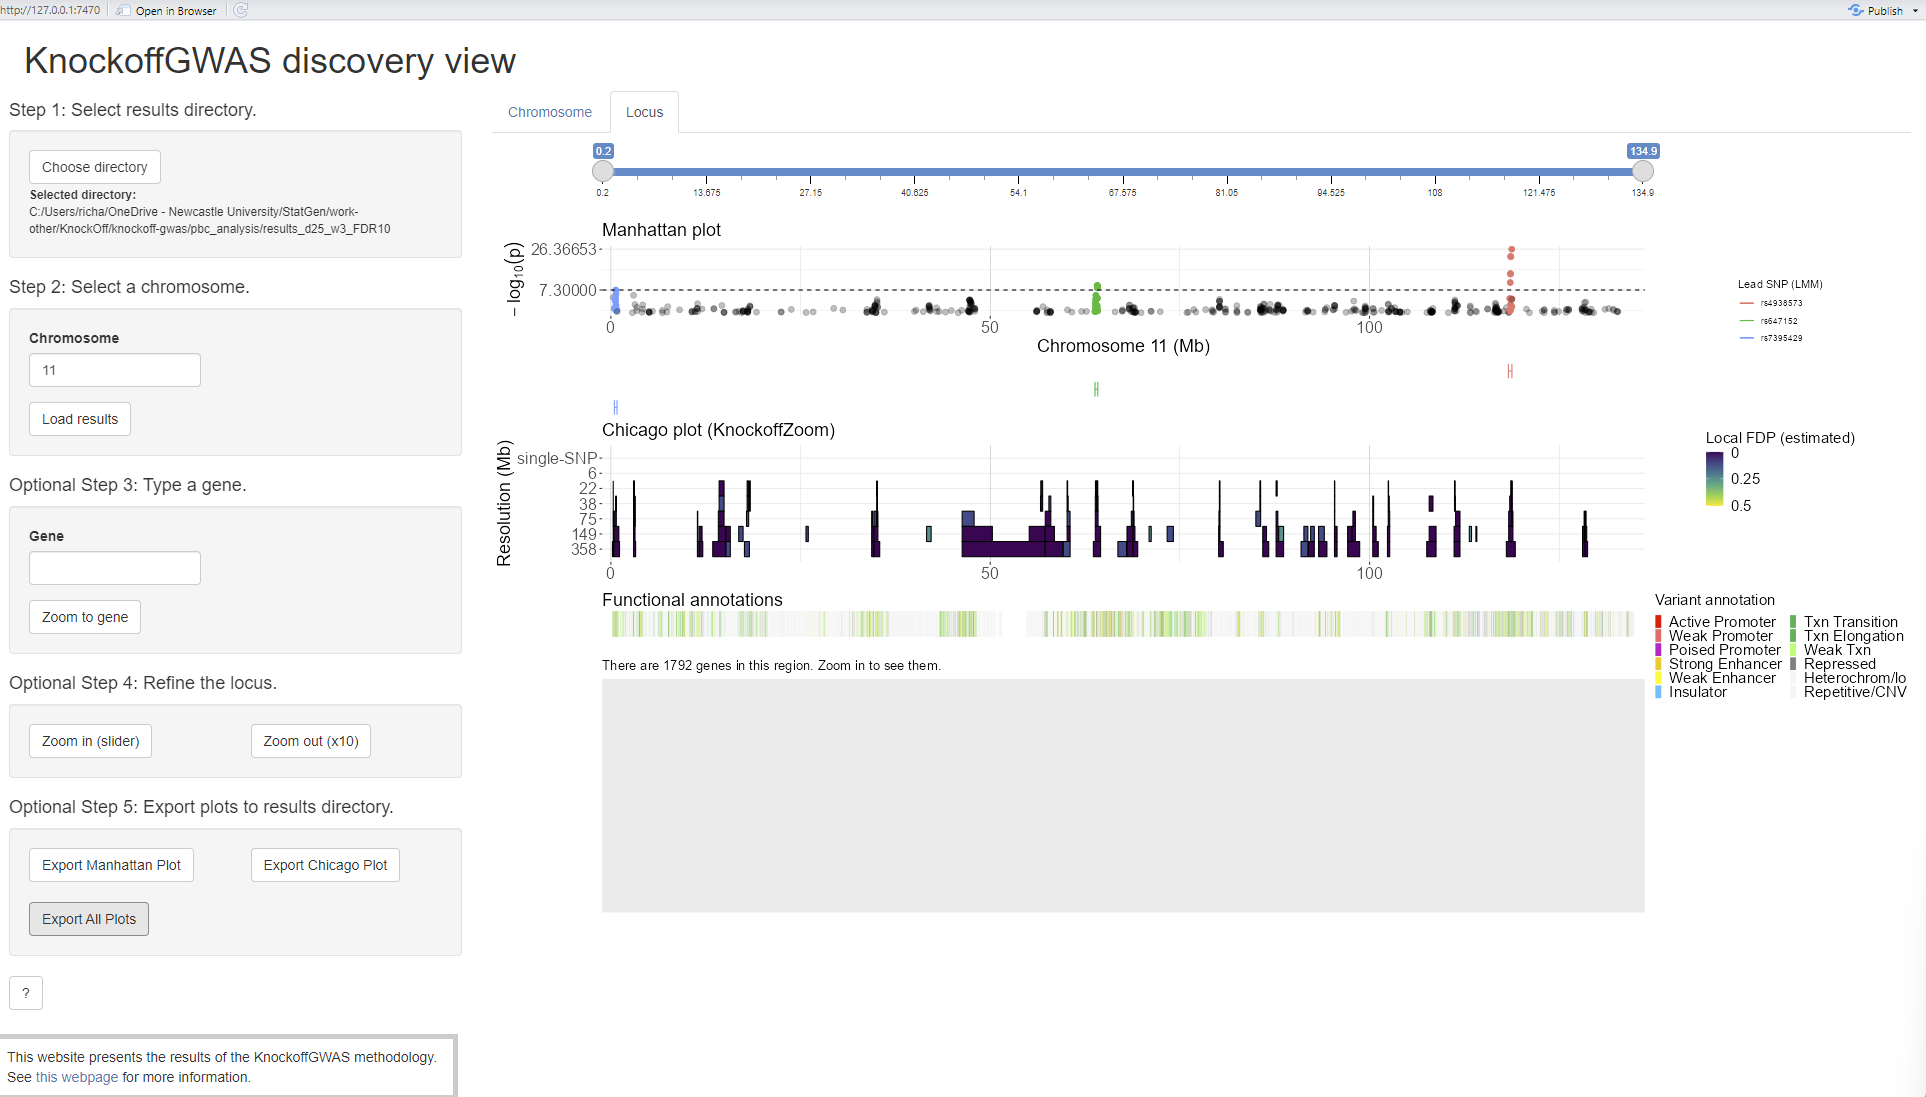
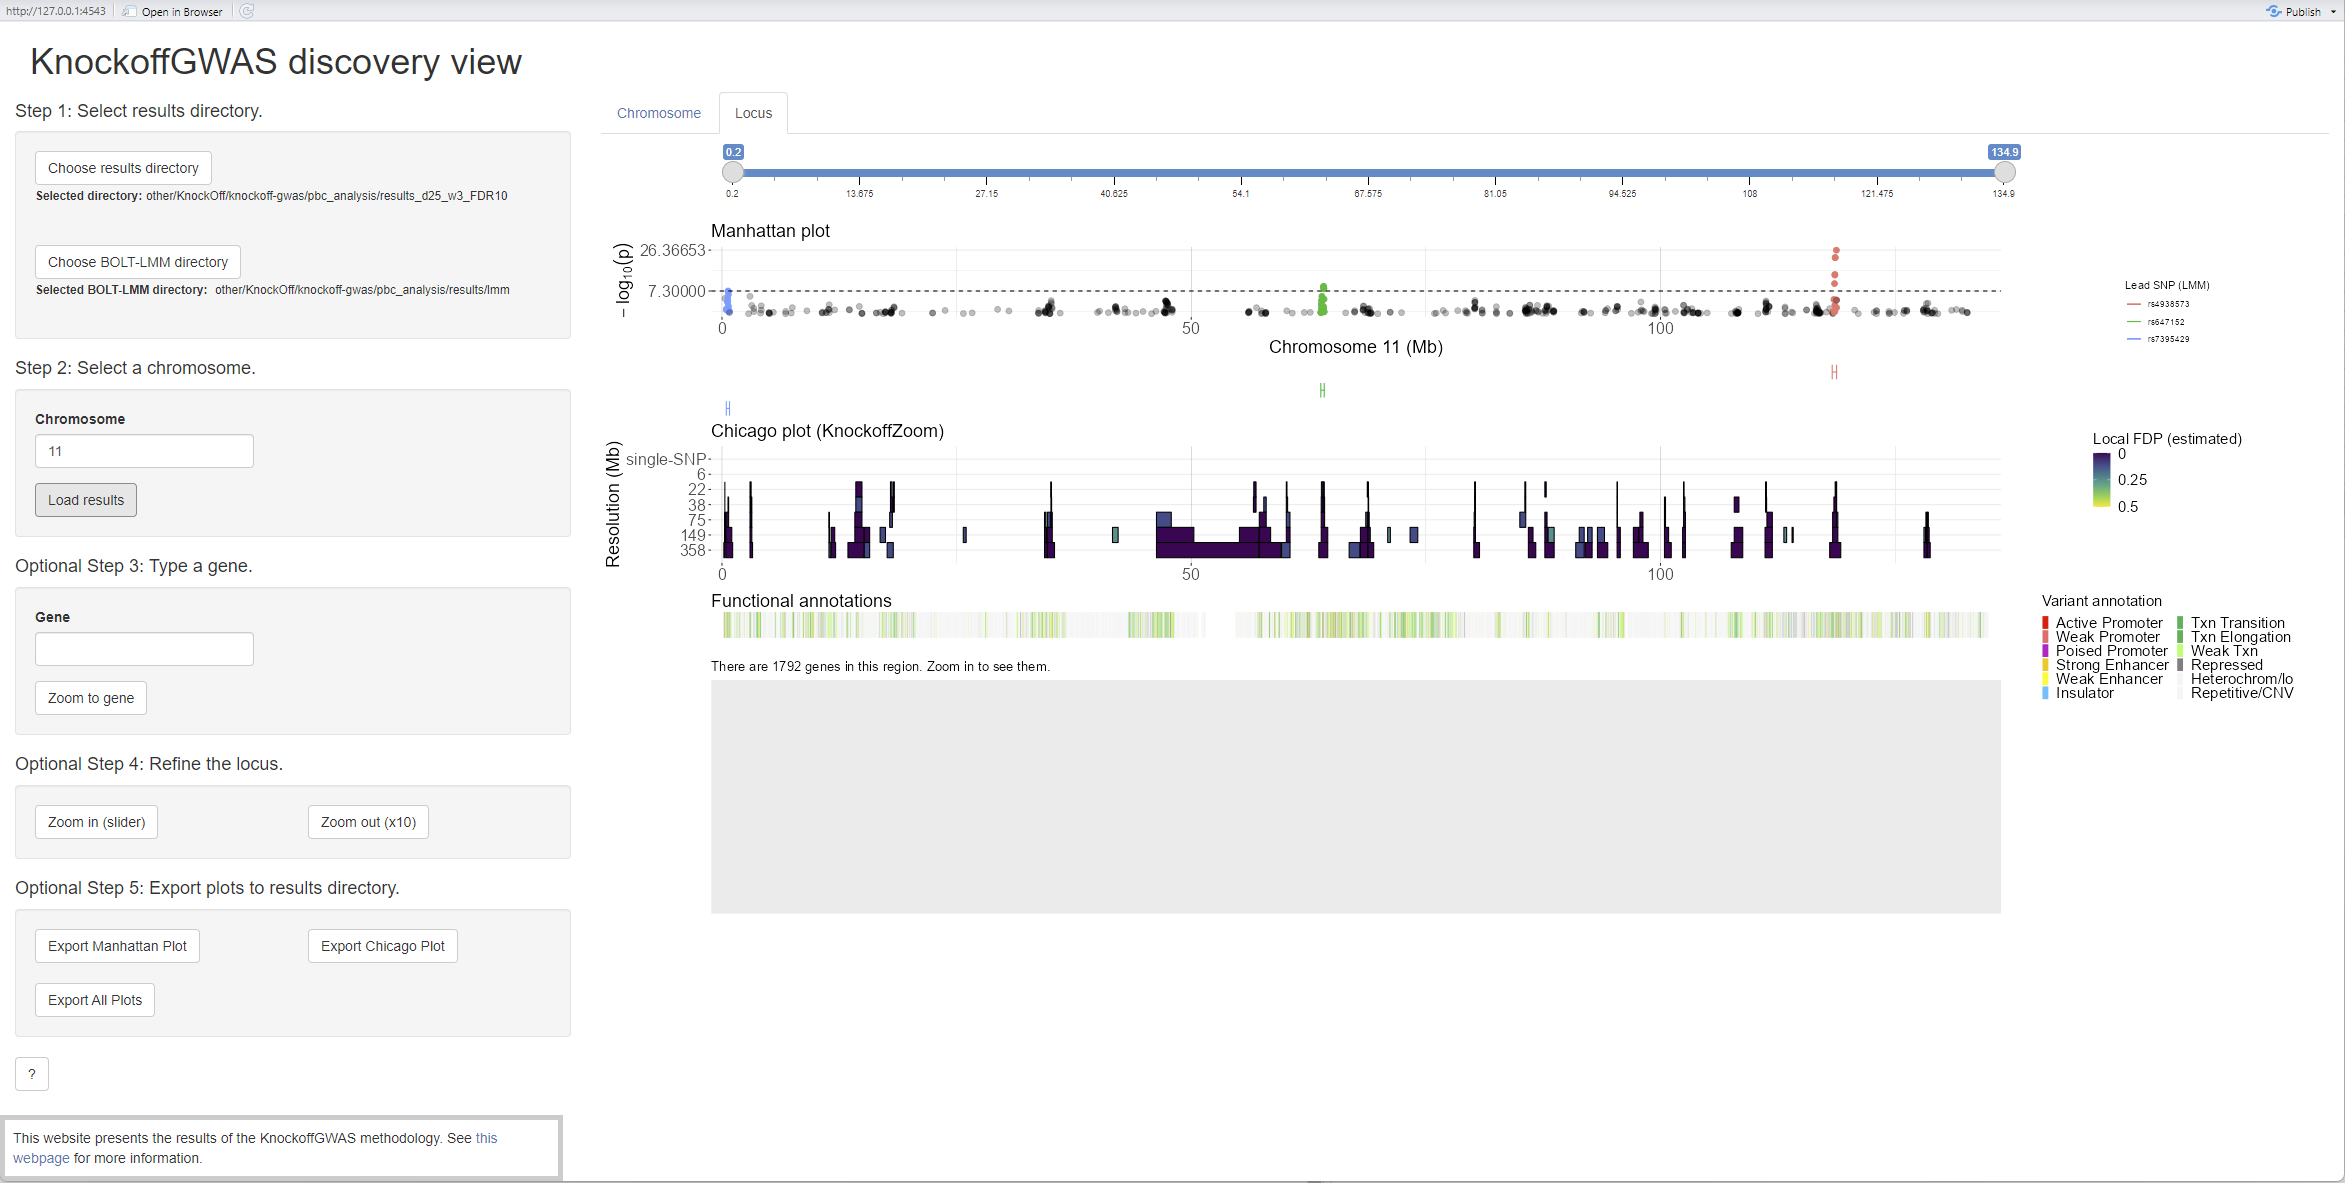
Shiny app docs update

diff --git a/docs/visualisation.rst b/docs/visualisation.rst
@@ -7,7 +7,7 @@ As well as the pipeline there is a shiny R app included, which is at this locati
 
 The easiest way to run the app is to open the `app.R` file in RStudio :cite:`rstudio` and click the green button, `Run App`, in the top right of the console.
 
-Follow steps 1. and 2. to the right to choose the directory where the results that you wish to load are stored, and then the chromosome data that you wish to load.
+Follow steps 1. and 2. to the right to choose the directories where the results that you wish to load are stored, and then the chromosome data that you wish to load.
 
 .. _flow-fig:
 

diff --git a/docs/bolt_lmm.rst b/docs/bolt_lmm.rst
@@ -11,10 +11,10 @@ Once BOLT-LMM is installed on your HPC machine (or elsewhere), the analysis can 
 
     1. Start chromosome number.
 
-    1. End chromosome number.
+    2. End chromosome number.
 
     3. Path and filename prefix of the data.
-
+    
     4. The phenotype name to give to the phenotype data. 
 
     5. The directory name used to store the results. This directory will be created automatically by the pipeline.
